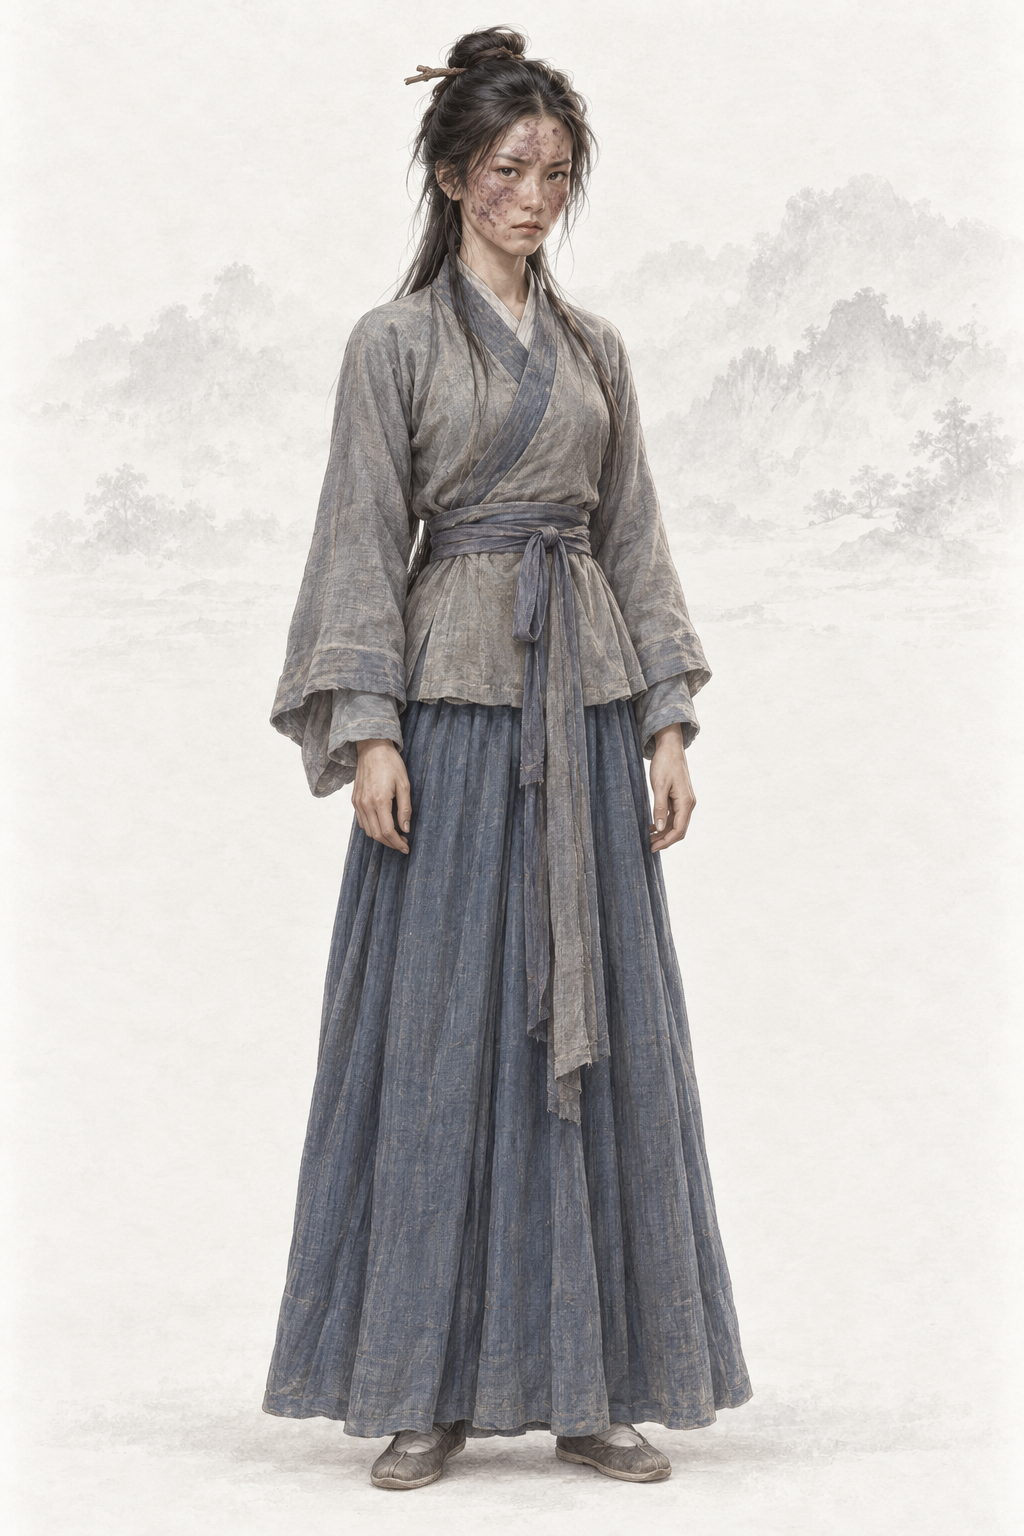
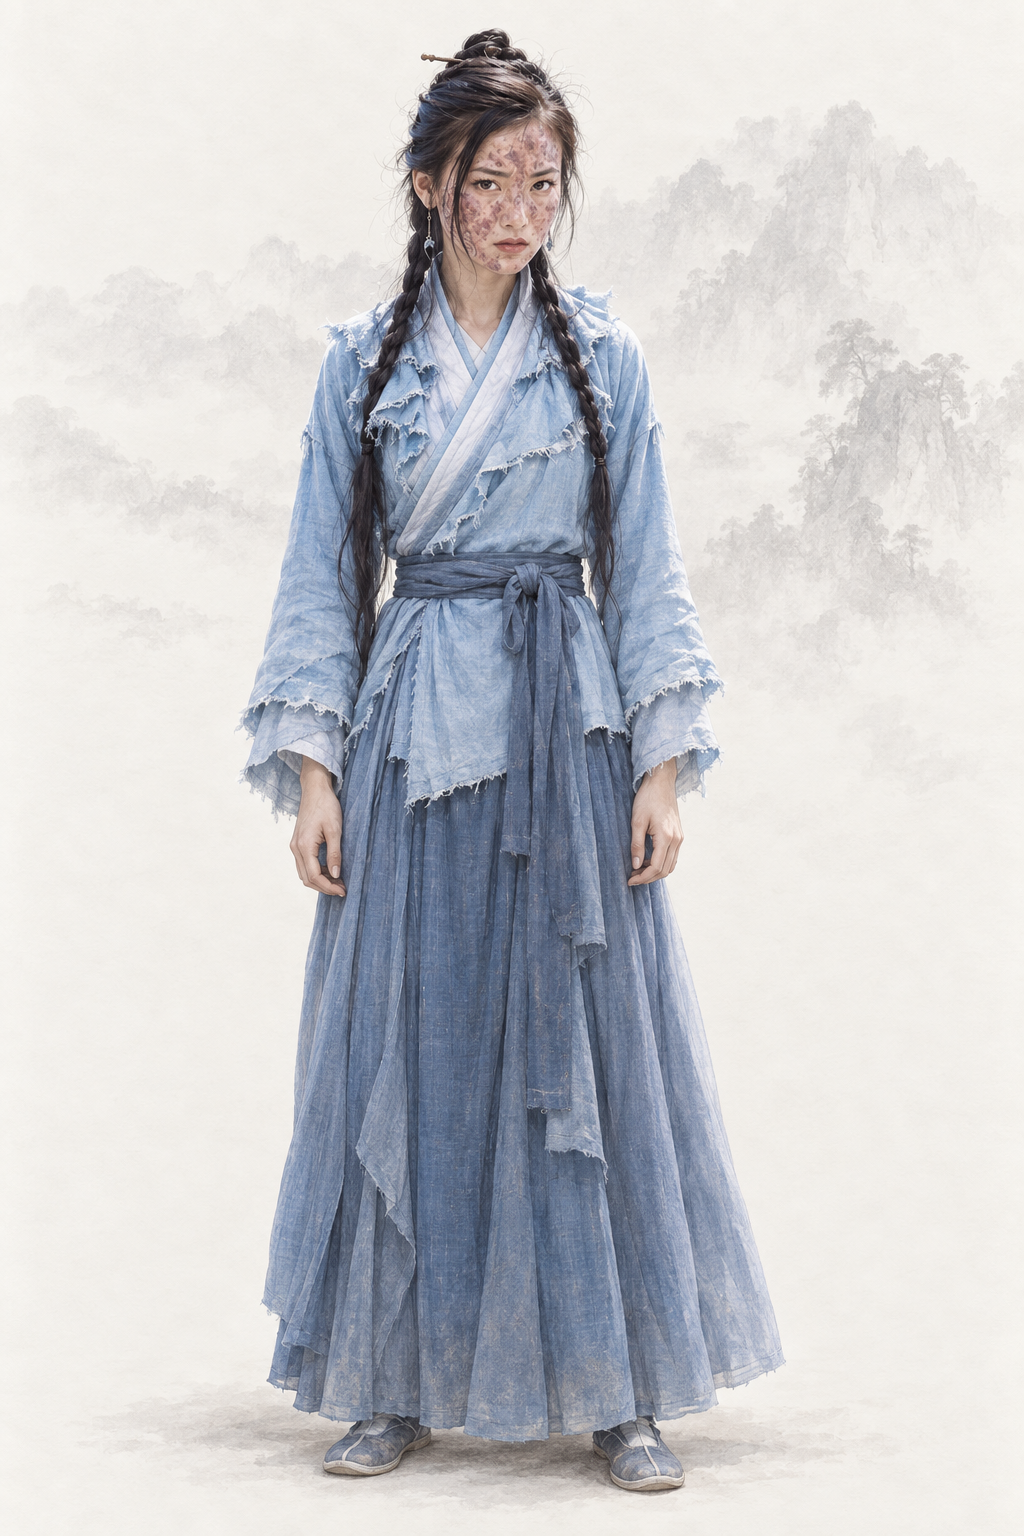
assets(character): por_npc_yinli__ch04_youth_disfigured_base 殷离（codex，AR-32 经典版）
参考 2003 年苏有朋、贾静雯版《倚天屠龙记》（作者 AR-32 指定） 剧照与项目基线重出；剧照只作出图参考，不入库。

diff --git a/assets/default/prompts/characters/ch04-yitian/npc_yinli.md b/assets/default/prompts/characters/ch04-yitian/npc_yinli.md
@@ -15,14 +15,43 @@ references:
   use: 第二输入为用户王语嫣水墨图，只取暖浅灰不透明纸底、极淡水墨远山、薄雾与留白。完全忽略其中人物面容、性别、年龄、衣裙、体型、飘带和倾头；不复制清晰亭台与前景花枝。
 status: redo
 realism_revision: user_identity_pose_20261001
-redo_reason: "现图是幼态的漂亮脸只点了几块淡紫斑，不合原著“面容黝黑、肌肤浮肿、凹凹凸凸、极是丑陋，只一对眸子颇有神采、身材苗条”"
+redo_reason: "AR-32：主要角色参考经典影视版剧照（2003 年版）加基线重出（10-02，7 号出图员）"
 reference_upload:
+- .agents/coord/imagegen-reference/identity-20261002/yitian/yinli_2003_chenzihan_tvsou.jpg
 - assets/default/baseline/character/female/ref_npc_wangyuyan__ch01_base01.png
+- assets/default/baseline/character/female/ref_npc_xiaolongnv__ch03_base01.png
+classic_ref:
+  version: 2003 年苏有朋、贾静雯版《倚天屠龙记》（作者 AR-32 指定）
+  actor: 陈紫函
+  stills:
+  - .agents/coord/imagegen-reference/identity-20261002/yitian/yinli_2003_chenzihan_tvsou.jpg
+codex_prompt_rev: 2026-10-02
 ---
 
 # 殷离 · 人物写实修正
 
 ## Gemini 提示词
+
+> 2026-10-02 AR-32 改写（7 号出图员，codex exec · image_gen 出图）：主要角色参考经典影视版剧照重出——2003 年苏有朋、贾静雯版《倚天屠龙记》（作者 AR-32 指定）。按顺序上传剧照 1 张（yinli_2003_chenzihan_tvsou.jpg，在主检出 .agents/coord/imagegen-reference/identity-20261002/，不入库）取发型、服饰、配色、气质与面部特征，再上传两张同性别缩小版基线（放在最后）取画风；要求重新绘制成项目画风，不复制照片。提示词里不写演员名。上一版保留在后文作历史。
+
+```text
+生成一张 2:3 竖幅全身人物立绘：单人、单一视角、完整全身——头顶、双手、双脚和手中器物的两端都在画面内，四周留出自然空白；人物站姿自然，身体基本朝向正面，头部端正（不歪头、不仰不俯），镜头平视。
+【画风】写实手绘古风人物插画，与本项目写实武侠角色立绘同一画风，像功力深厚的画师用细腻笔触画出的真实人物。手绘插画质感，不是 CG 渲染：不要过度光滑的皮肤、完美对称的五官、塑料高光、过度锐利的发丝；保留自然的笔触和细微不完美。皮肤有真实质感——细小毛孔、细纹、晒痕和自然的左右不对称，不磨皮、不油亮；头发是一缕缕自然的发丝和少量碎发；布料看得出经纬纹理、厚薄和自然垂坠的褶皱，带穿用过的轻微旧化，但完整不破烂；整体设色低饱和、沉稳；柔和的自然光从左上方照来，明暗过渡自然，不打舞台光、轮廓光或美颜柔光。不是照片，不是三维渲染，不是动漫或游戏 CG，也不是油画（没有厚涂笔触和画布纹理）。
+【背景】不透明的暖浅灰色纸底，只在远处有极淡的水墨远山和薄雾，大面积留白；人物与背景明暗分明、轮廓边缘干净完整（后续要自动抠图），水墨和纸纹只在背景里，不侵入人物和衣服；脚下只有很淡的一点接触阴影。
+【剧照参考】随提示词上传的第 1 张参考图是这个角色经典影视造型的剧照：借鉴其发型、服饰、配色、标志道具、气质和面部特征（脸型、眉眼、鼻唇的比例与神态），让人一眼认出是这个角色；但必须重新绘制成本项目画风的手绘写实插画，不要照片质感，不要照搬剧照的构图、取景、光影、背景和姿势，也不要做成照片修图或磨皮美颜；剧照里的影楼柔光、浓妆、字幕和水印都不要。最后两张是本项目画风基线：画风、用色、光线、质感和暖浅灰纸底加淡水墨背景以它们为准。
+【人物】殷离（蛛儿），《倚天屠龙记》殷野王之女、张无忌的表妹；练千蛛万毒手毁了容貌，雪岭与“曾阿牛”相识之后的阶段。倔强偏激、痴情执着。
+【年龄与体态】原著十七八岁，按本作规定画成约二十岁的成年年轻女子；原著说她身材苗条纤秀。成年女性的身体比例（约 7 头身），衣着完整端庄、不透明、不暴露、不性感化。
+【经典造型】照剧照里这一版深入人心的蛛儿来画：一身浅蓝粗布衣裙、衣缘是毛糙的布边，两条乌黑的长辫垂在胸前，鬓边有些散乱的碎发，耳上一对细长的耳坠；眼神亮而带野气。
+【面容】脸型、眉眼和嘴唇照剧照来画；但脸上的毒斑要按原著画得比剧照重得多（剧照里只有眼下一小块淡紫斑，本图不要那样）：原著写她面容黝黑、脸上肌肤浮肿、凹凹凸凸，只是一对眸子颇有神采。具体为：整张脸肤色黝黑，两颊、额头和下巴布满高低不平的暗紫褐色毒斑与浮肿（如实画出，但不血腥、不溃烂、不恐怖、不恶搞）；在这张脸上，一双眼睛格外明亮、倔强有神；眉毛浓黑；嘴唇紧抿。
+【发式】头顶的头发用一根荆枝做的钗简单挽住，其余编成两条长辫垂在胸前，鬓边碎发。
+【服饰】原著荆钗布裙、像个乡村贫女：浅蓝色粗布交领右衽短袄、衣缘与袖口是毛糙的布边，旧蓝布长裙，粗布腰带，布鞋；衣服旧而完整。
+【道具】空手；手指正常，不长出利爪，不画蜘蛛、蛛网或毒雾。
+【姿态与神情】倔强地站着，下巴微扬；眼神亮而带野气。
+【不要】画面里不要任何文字、题款、印章、签名、水印、边框、分格或多视图；不要第二个人；不要幼态（童颜、娃娃脸、婴儿肥、儿童或少年身材、大头小身）；不要塑料感皮肤、磨皮美颜、网红脸（尖下巴大眼高鼻的模板脸）、过度对称、浓妆、偶像式打光、蜡像感；不要照片质感、照片修图感、三维渲染或动漫大眼；不要直接复制剧照的画面；不要歪头、斜镜头；不要多指、缺指（设定的伤残除外）、手与器物粘连或悬空；汉式交领必须右衽（穿着者的左襟压在右襟上），不要左衽（设定为少数民族服制的除外），不要水平镜像；不要现代物品、发光特效、法阵或能量光。不要光洁漂亮的脸、只在眼下点一两块淡斑；不要娃娃脸或少女身材；不要血腥、溃烂、恐怖化或恶搞；不要华美衣饰。
+【画风基线】随提示词上传的参考图里，最后两张是本项目的立绘画风基线：只参考它们的画风、用色、光线、质感和暖浅灰纸底加淡水墨的背景处理，整体画风必须与它们一致——精细写实的数字手绘插画，不是油画，不要厚涂笔触和画布纹理。基线图只取画风、光线、质感和背景处理，不取长相：不要照搬基线图里人物的长相、年龄、发型、服饰和姿势。
+```
+
+## 上一版 Gemini 提示词（AR-32 改写前，历史，不再用于出图）
 
 > 2026-10-02 重要人物立绘重审（A 组，`tools/agents/reports/REVIEW-portraits-A-ch00-04.md`）：**整体重出**。现图是幼态的漂亮脸只点了几块淡紫斑，不合原著“面容黝黑、肌肤浮肿、凹凹凸凸、极是丑陋，只一对眸子颇有神采、身材苗条”。
 > 本条不上传任何参考图（`reference_upload: []`）；frontmatter 的 `references` 与本节以下内容是旧出图管线的历史记录，不再用于出图。
